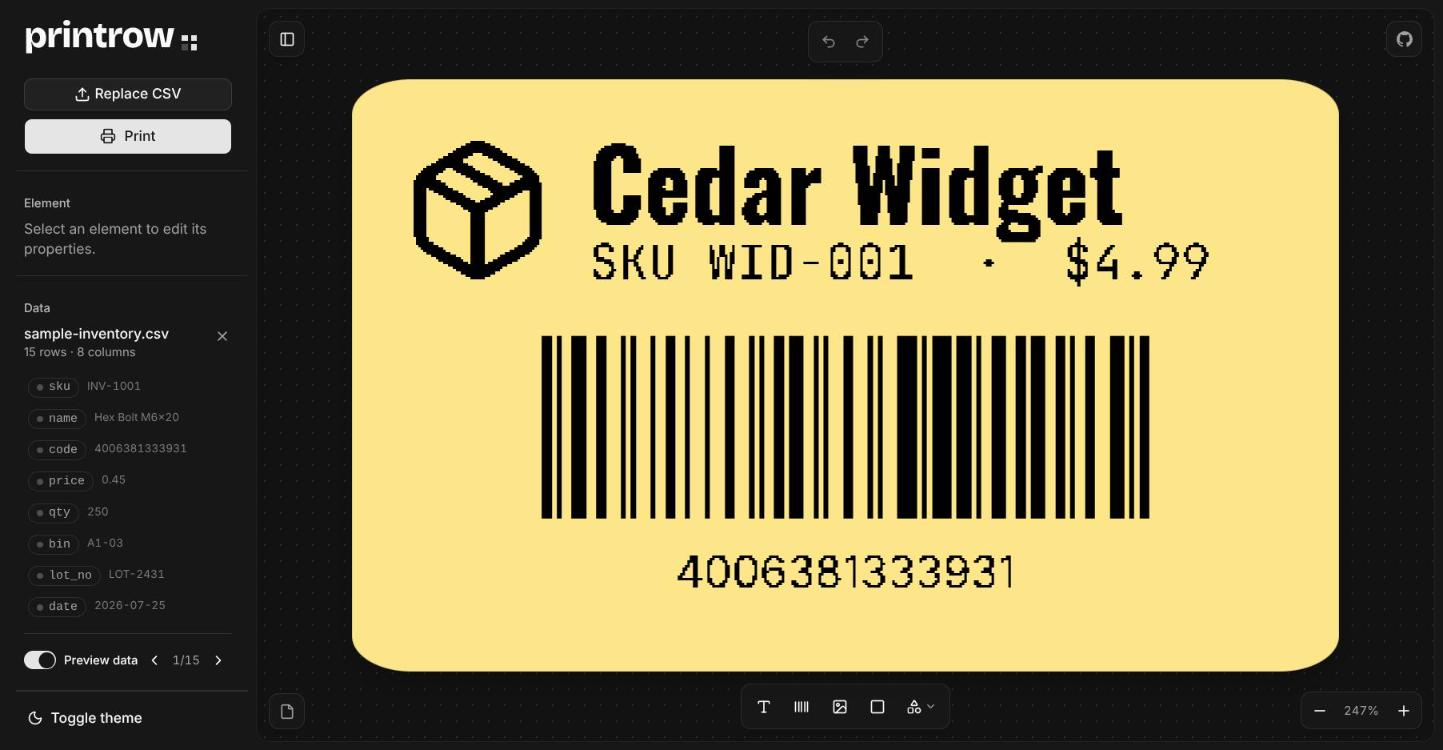
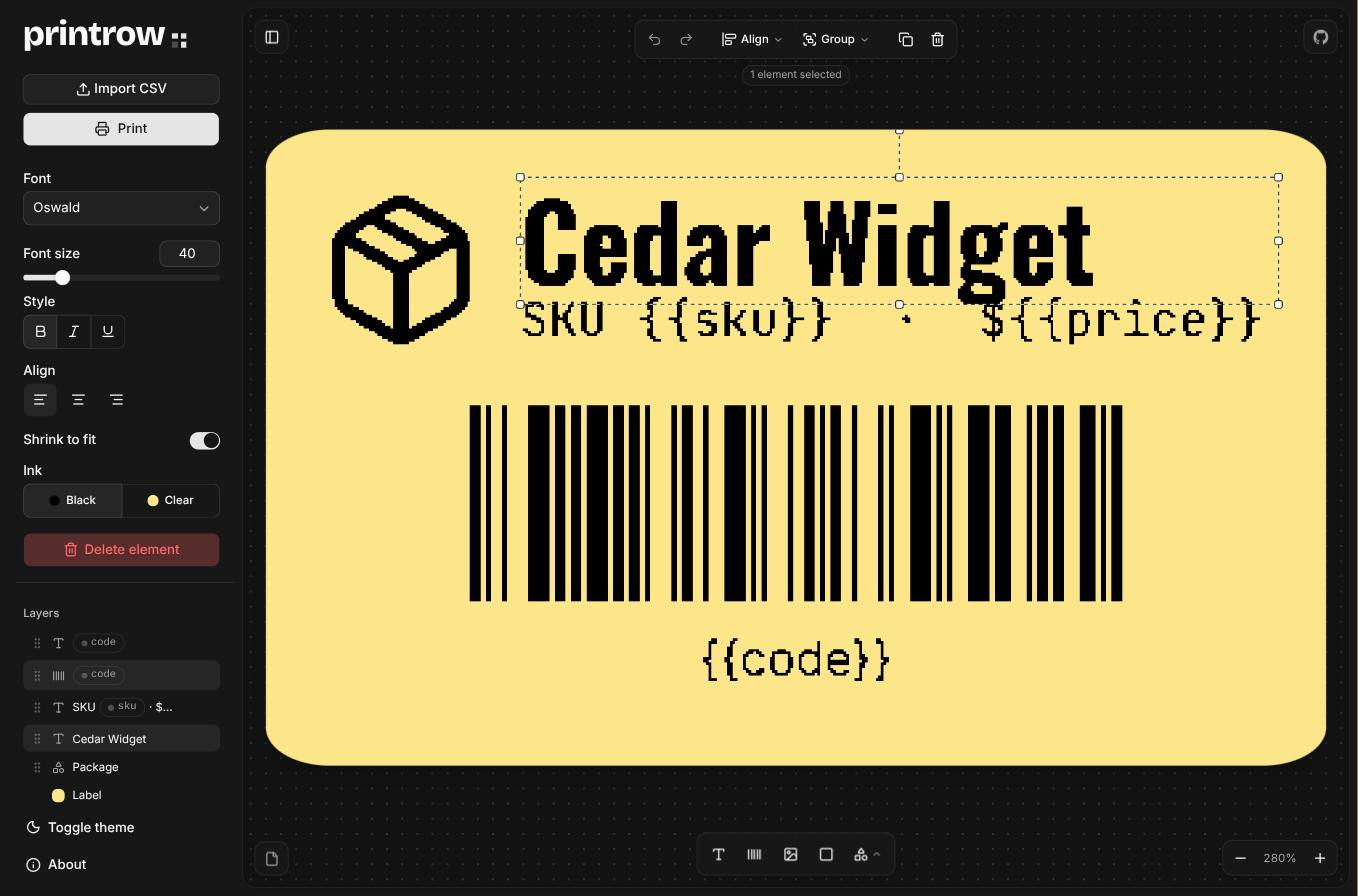
Refresh the README screenshot
Shot from the live site, so it shows the current editor including the
ink control. Optimized with jpegtran rather than re-encoded: every
re-encode came out larger than Chrome's original, because chroma
subsampling fights sharp UI text.

diff --git a/README.md b/README.md
@@ -2,7 +2,7 @@
 
 **[printrow.lastra.us](https://printrow.lastra.us)** is a label designer that prints against CSV data over Web Bluetooth. No drivers, no installs, no print server: design a label in the browser, bind `{{variables}}` to CSV columns, and batch-print to a KNAON Y50P thermal printer directly from the page.
 
-![The printrow editor: a yellow label with an icon, product name, SKU, and a Code 128 barcode, alongside the CSV column panel](docs/screenshot.jpg)
+![The printrow editor: a yellow label carrying a package icon, a product name, a SKU and price bound to {{variables}}, and a Code 128 barcode, with the element inspector and layer list alongside it](docs/screenshot.jpg)
 
 ## What it does
 
